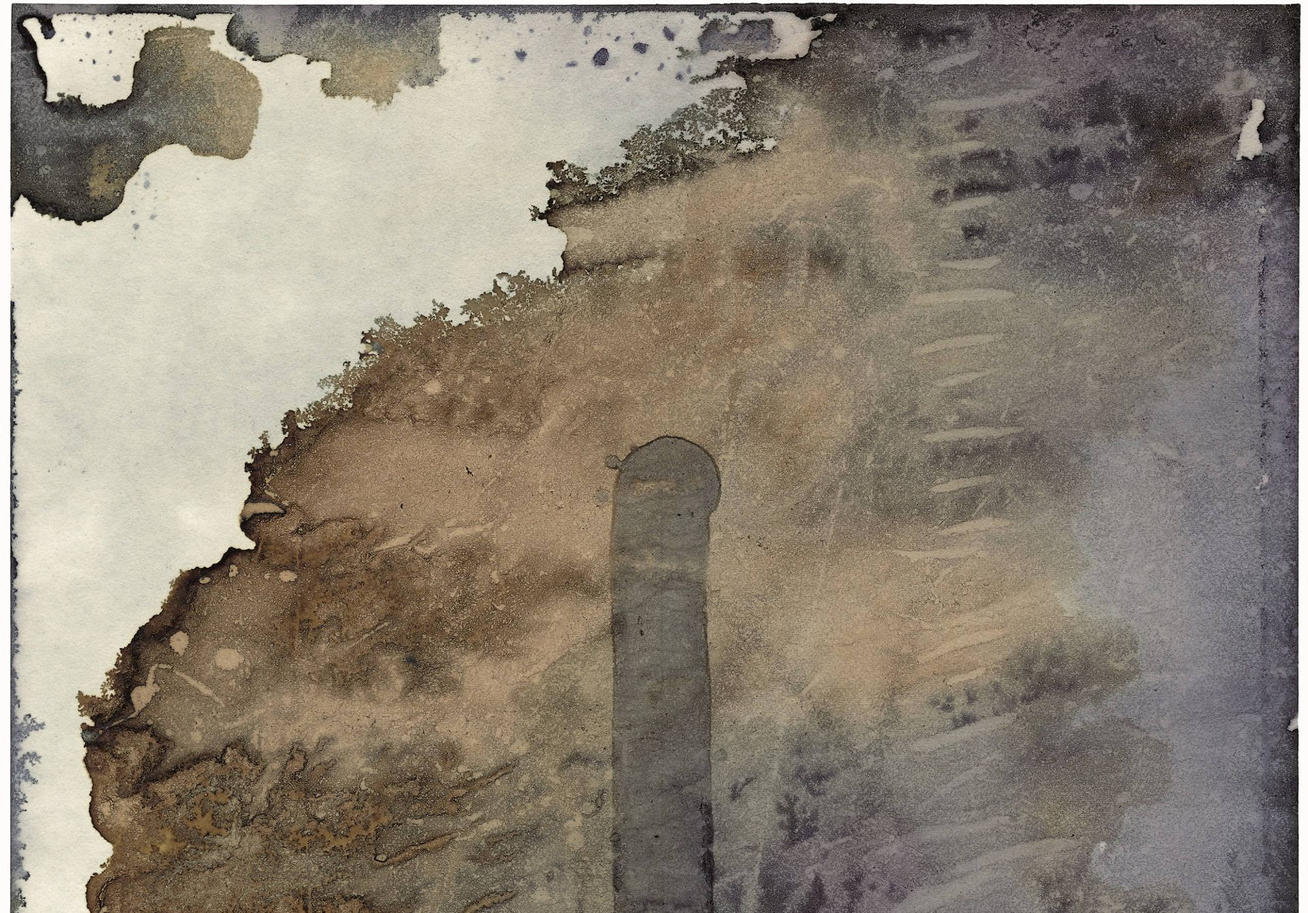
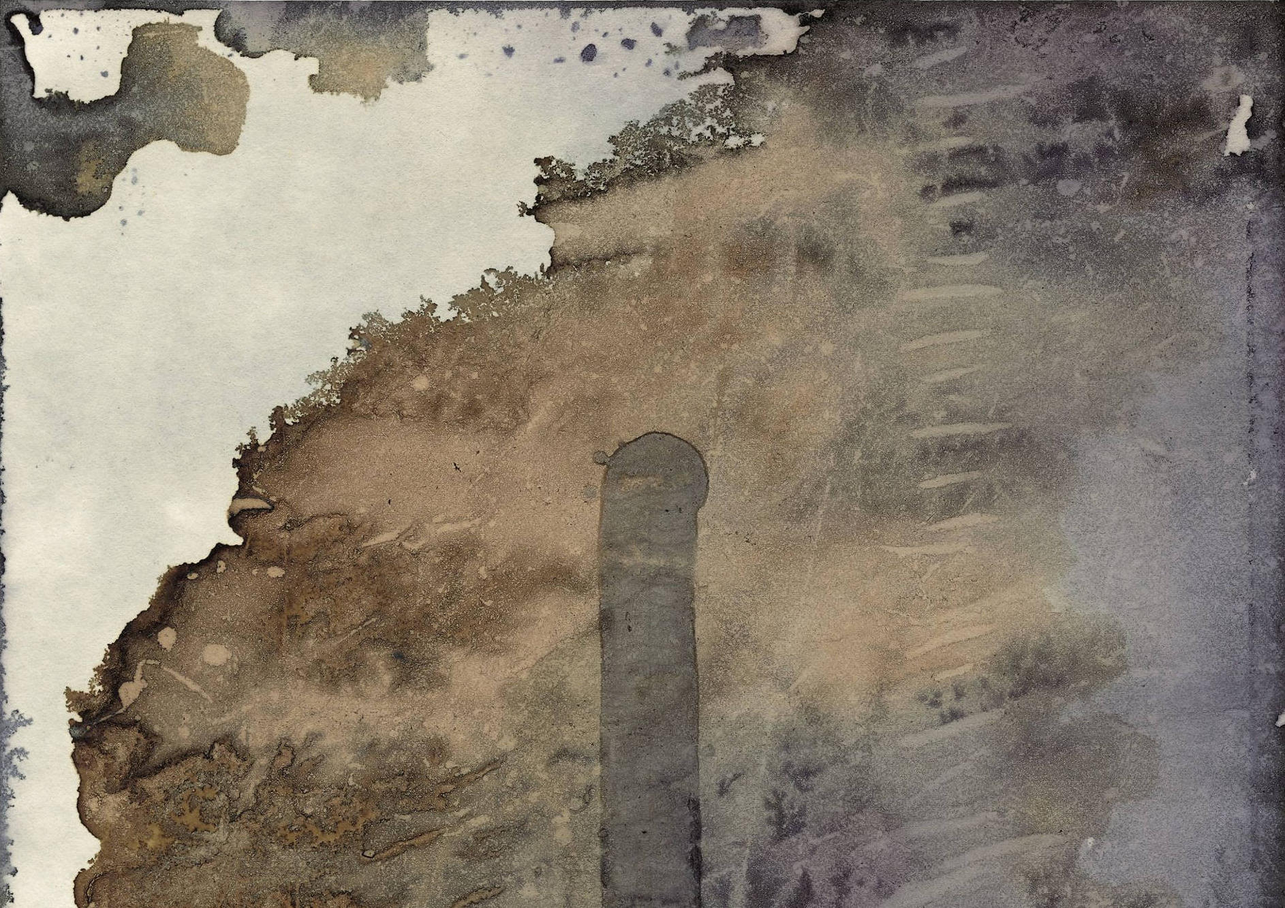
basic theming

Changed region(s): [[0.0, 0.0, 1.0, 1.0]]

diff --git a/css/style.css b/css/style.css
@@ -12,11 +12,11 @@ body {
   line-height: 1.6;
   margin: 0 !important;
 
-  background: #fcfcfc url(../images/bg.jpg) no-repeat center center fixed;
-  -webkit-background-size: cover;
-  -moz-background-size: cover;
-  -o-background-size: cover;
-  background-size: cover;
+  background: #fcfcfc url(../images/bg.jpg) no-repeat top left fixed;
+  -webkit-background-size: 100%;
+  -moz-background-size: 100%;
+  -o-background-size: 100%;
+  background-size: 100%;
 }
 body.admin-menu.adminimal-menu {
     margin-top: 1.5em !important;
@@ -28,19 +28,21 @@ body.admin-menu.adminimal-menu {
   padding: 2% 5% !important;
 }
 header, .navigation-region, .page, footer {
-  background: none repeat scroll 0 0 #fcfcfc;
   /*max-width: 1400px;
   margin: 0 auto;*/
 }
 footer {
-  margin-bottom: 110px !important;
-  border: 2px solid #fcfcfc;
+  position: fixed;
+  bottom: 0em;
+  width: 100%;
+  border: 0px solid #fcfcfc;
+  background: rgba(255,255,255,.7);
+  text-align: left;
 }
 header[role="banner"] {
   margin-top: 0;
   border: 0;
   line-height: 0;
-  background: #fcfcfc;
   position: relative;
 }
 .header-region {
@@ -54,14 +56,17 @@ header[role="banner"] {
 .navigation-region {
   padding: 0 2% 0 2.9%;
   display: table;
-  border-bottom: 2px solid #fcfcfc;
-  border-top: 2px solid #fcfcfc;
+  border-bottom: 0px solid #fcfcfc;
+  border-top: 0px solid #fcfcfc;
 }
 #main-content,
 div.sidebar-first,
 div.sidebar-second {
   padding: 2% 0 2% 5%;
   border: 0;
+}
+header[role="contentinfo"] {
+  width: 100%;
 }
 
 /* Typography */

diff --git a/css/erdfest_layout.css b/css/erdfest_layout.css
@@ -14,23 +14,15 @@ img{
 
 
 /* colors */
-body{ background-color: #fcfcfc; color: #300; margin:20px 0 }
-.page{ border:0;}
+body{ color: #300; margin:20px 0 }
 body.sidebar-first div[role="main"] { border-left: 0px solid #eee; }
 body.sidebar-second div[role="main"]{ border-right: 0px solid #eee; }
 body.two-sidebars div[role="main"]  { border-left: 0px solid #eee; border-right: 0px solid #eee; }
+.page { background: transparent; border: 0;}
 
-.siteinfo {
-  margin: 5% !important;
-  z-index: 10;
-  width: 90% !important;
-}
-  .siteinfo figure { display:block; }
-  .siteinfo h1 { font-size:2em; line-height:1.22em; text-transform: none; color: #c00; padding: 0; display: inline; background: rgba(255, 255, 255, 0.60); display:none; }
+  .siteinfo h1 { display:none; }
   .siteinfo h2 { font-size:1em}
 
-footer[role="contentinfo"]{ text-align:center;}
-header[role="banner"],.navigation-region, .page, footer[role="contentinfo"]{ width: 100%;  margin: 0 auto; }
 .navigation-region nav ul {padding:0}
 .navigation-region nav li { display: inline-block;}
 .navigation-region nav, .navigation-region div, .header-region div{float:left}
@@ -71,7 +63,7 @@ body.two-sidebars  div.sidebar-second{ width: 50%; }
 }
 
 @media only screen and (min-width: 960px) {
-  .siteinfo{margin-top: 11%; width: 40%}
+  .siteinfo{margin-top: 15%; margin-left: 15%;}
   .header-region{width:auto}
 
   div[role="main"] {width: 100%; float: left; padding:0 1%; }
